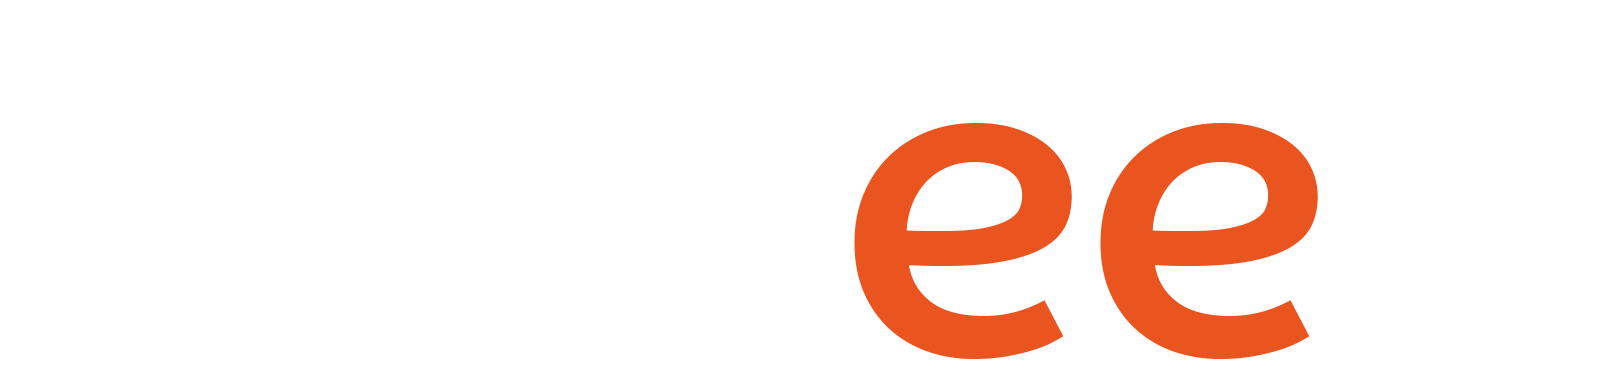
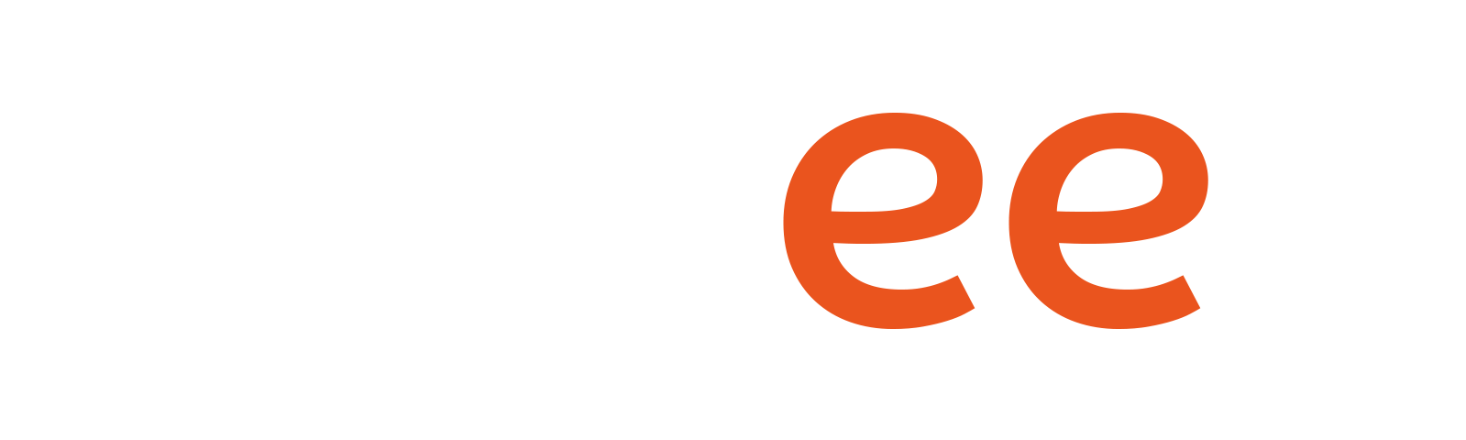
:sparkles:(general): some implementations

Changed region(s): [[0.5218, 0.2585, 0.8288, 0.9478]]

diff --git a/components/navbar/navbar.component.tsx b/components/navbar/navbar.component.tsx
@@ -6,11 +6,14 @@ import { MobileMenu } from './mobile/menu/mobile-menu.component';
 import { SocialButtons } from './soial-buttons.component';
 import Image from 'next/image';
 import Link from 'next/link';
+import { useDarkMode } from '../../helper/theme.helper';
 
 export const NavBar = (): JSX.Element => {
     const [mobileMenuOpen, setMobileMenuOpen] = useState(false);
 
     const path = useRouter().pathname;
+
+    const [isDark] = useDarkMode();
 
     const toggleMobileMenu = () => {
         setMobileMenuOpen(!mobileMenuOpen);
@@ -23,7 +26,7 @@ export const NavBar = (): JSX.Element => {
                     <div className="flex">
                         <div className="flex-shrink-0 flex items-center">
                             <Link href={'/'}>
-                                <a>
+                                <a className="text-base">
                                     <div className={'block lg:hidden h-8 w-8 relative'}>
                                         <Image
                                             src="/assets/images/r.png"
@@ -31,9 +34,13 @@ export const NavBar = (): JSX.Element => {
                                             layout={'fill'}
                                         />
                                     </div>
-                                    <div className={'hidden lg:block h-8 w-20 relative'}>
+                                    <div className="hidden inline lg:block h-8 w-24 relative">
                                         <Image
-                                            src="/assets/images/rubeen.png"
+                                            src={
+                                                isDark
+                                                    ? '/assets/images/rubeen-light.png'
+                                                    : '/assets/images/rubeen-dark.png'
+                                            }
                                             alt="Ruben Vitt • Rubeen - Logo"
                                             layout={'fill'}
                                         />
